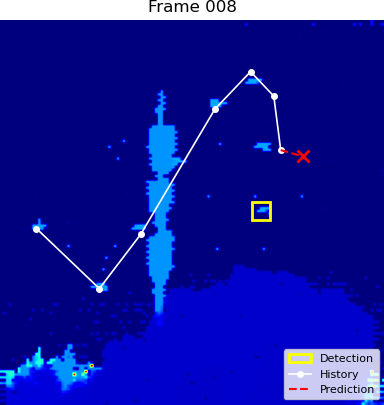
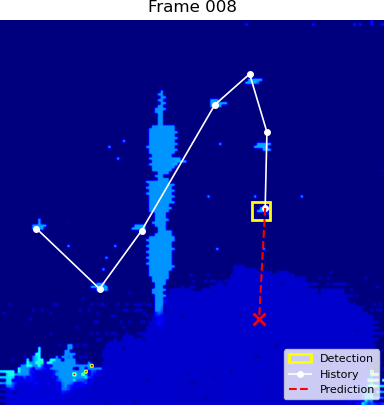
add constant accleration motion model code

diff --git a/src/CA_EKF.py b/src/CA_EKF.py
@@ -1,0 +1,102 @@
+# src/CA_EKF.py
+import numpy as np
+
+class KalmanPredictor:
+    """
+    单目标匀加速运动的扩展卡尔曼滤波预测器（CA-EKF）。
+    状态向量 x = [px, vx, ax, py, vy, ay]^T
+    观测 z = [px, py]^T
+    """
+
+    @staticmethod
+    def get_center(box):
+        x0, x1, y0, y1 = box
+        return np.array([[(x0 + x1) / 2.0], [(y0 + y1) / 2.0]], dtype=np.float32)
+
+    def __init__(self, process_var=1.0, meas_var=10.0):
+        self.dim_x, self.dim_z = 6, 2
+        self.process_var = process_var
+        self.R = np.eye(self.dim_z, dtype=np.float32) * meas_var
+        self.P = np.eye(self.dim_x, dtype=np.float32) * 500.0
+        self.x = np.zeros((self.dim_x, 1), dtype=np.float32)
+        self.inited = False
+        self.last_frame = None
+
+    def fx(self, x, dt):
+        px, vx, ax, py, vy, ay = x.flatten()
+        return np.array([
+            [px + vx * dt + 0.5 * ax * dt**2],
+            [vx + ax * dt],
+            [ax],
+            [py + vy * dt + 0.5 * ay * dt**2],
+            [vy + ay * dt],
+            [ay]
+        ], dtype=np.float32)
+
+    def jac_F(self, dt):
+        F = np.eye(self.dim_x, dtype=np.float32)
+        F[0, 1] = F[3, 4] = dt
+        F[1, 2] = F[4, 5] = dt
+        F[0, 2] = F[3, 5] = 0.5 * dt**2
+        return F
+
+    def hx(self, x):
+        return np.array([[x[0, 0]], [x[3, 0]]], dtype=np.float32)
+
+    def jac_H(self):
+        H = np.zeros((self.dim_z, self.dim_x), dtype=np.float32)
+        H[0, 0] = 1.0
+        H[1, 3] = 1.0
+        return H
+
+    def get_Q(self, dt):
+        q = self.process_var
+        t5, t4, t3, t2 = dt**5/20, dt**4/8, dt**3/6, dt**2/2
+        Q_template = np.array([[t5, t4, t3], [t4, t3, t2], [t3, t2, dt]], dtype=np.float32)
+        Q = np.zeros((self.dim_x, self.dim_x), dtype=np.float32)
+        Q[0:3, 0:3] = Q_template
+        Q[3:6, 3:6] = Q_template
+        return Q * q
+    
+    def init_filter(self, frame_idx, box):
+        z = self.get_center(box)
+        self.x[0,0], self.x[3,0] = z[0,0], z[1,0] # 位置用观测初始化，速/加-速度为0
+        self.last_frame = frame_idx
+        self.inited = True
+        
+    def predict_one(self, dt):
+        F = self.jac_F(dt)
+        Q = self.get_Q(dt)
+        self.x = self.fx(self.x, dt)
+        self.P = F @ self.P @ F.T + Q
+
+    def update(self, frame_idx, box):
+        if not self.inited:
+            self.init_filter(frame_idx, box)
+            return np.array([self.x[0,0], self.x[3,0]], dtype=np.float32)
+
+        dt = frame_idx - self.last_frame
+        if dt > 0:
+            self.predict_one(dt)
+
+        H = self.jac_H()
+        z = self.get_center(box)
+        z_pred = self.hx(self.x)
+        y = z - z_pred
+        S = H @ self.P @ H.T + self.R
+        K = self.P @ H.T @ np.linalg.inv(S)
+        self.x = self.x + K @ y
+        I = np.eye(self.dim_x, dtype=np.float32)
+        self.P = (I - K @ H) @ self.P
+        self.last_frame = frame_idx
+        return np.array([self.x[0,0], self.x[3,0]], dtype=np.float32)
+
+    def predict(self, future_frames=1):
+        if not self.inited: return np.zeros((future_frames, 2), dtype=np.float32)
+        x0, P0, last = self.x.copy(), self.P.copy(), self.last_frame
+        preds = []
+        for _ in range(future_frames):
+            self.predict_one(dt=1.0)
+            preds.append([self.x[0,0], self.x[3,0]])
+        self.x, self.P, self.last_frame = x0, P0, last
+        return np.array(preds, dtype=np.float32)

diff --git a/main.py b/main.py
@@ -9,7 +9,8 @@ import matplotlib.pyplot as plt
 from src.pixel_shifting_correction import RadarImageProcessor
 from src.object_detection      import SpatialDroneDetector
 # from src.UKF import KalmanPredictor
-from src.EKF import KalmanPredictor
+# from src.EKF import KalmanPredictor
+from src.CA_EKF import KalmanPredictor
 
 
 def natural_sort_key(s):
@@ -30,7 +31,7 @@ def main():
     # 初始化预处理器 + 滤波预测器
     proc      = RadarImageProcessor(shift_pixel=4)
     predictor = KalmanPredictor(
-        process_var=2.0,    # 过程噪声方差，可调
+        process_var=5.0,    # 过程噪声方差，可调
         meas_var=20.0       # 测量噪声方差，可调
     )
 
